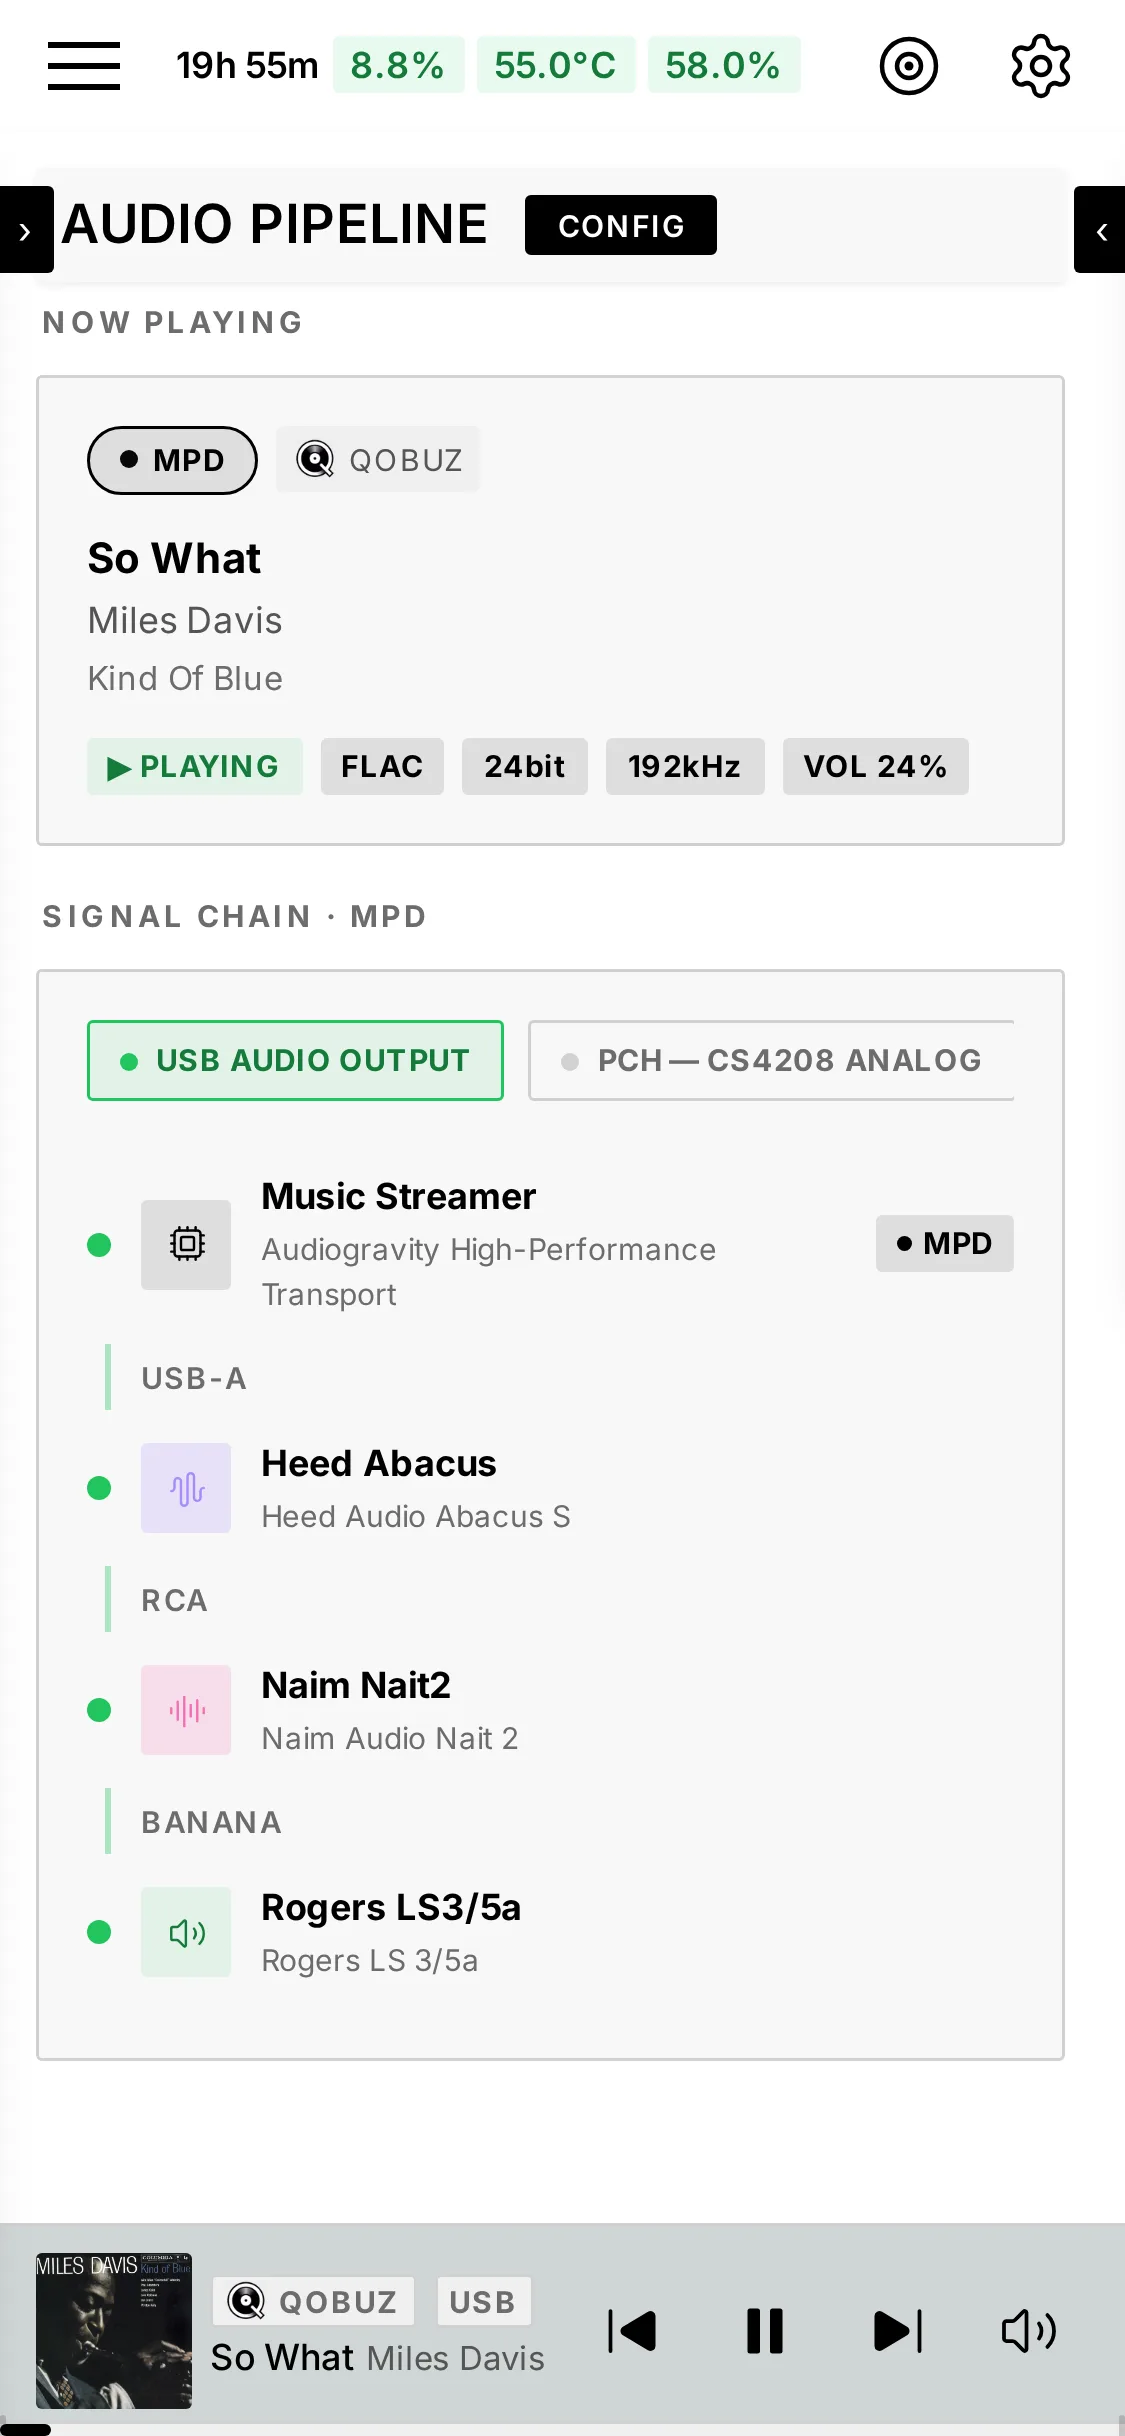
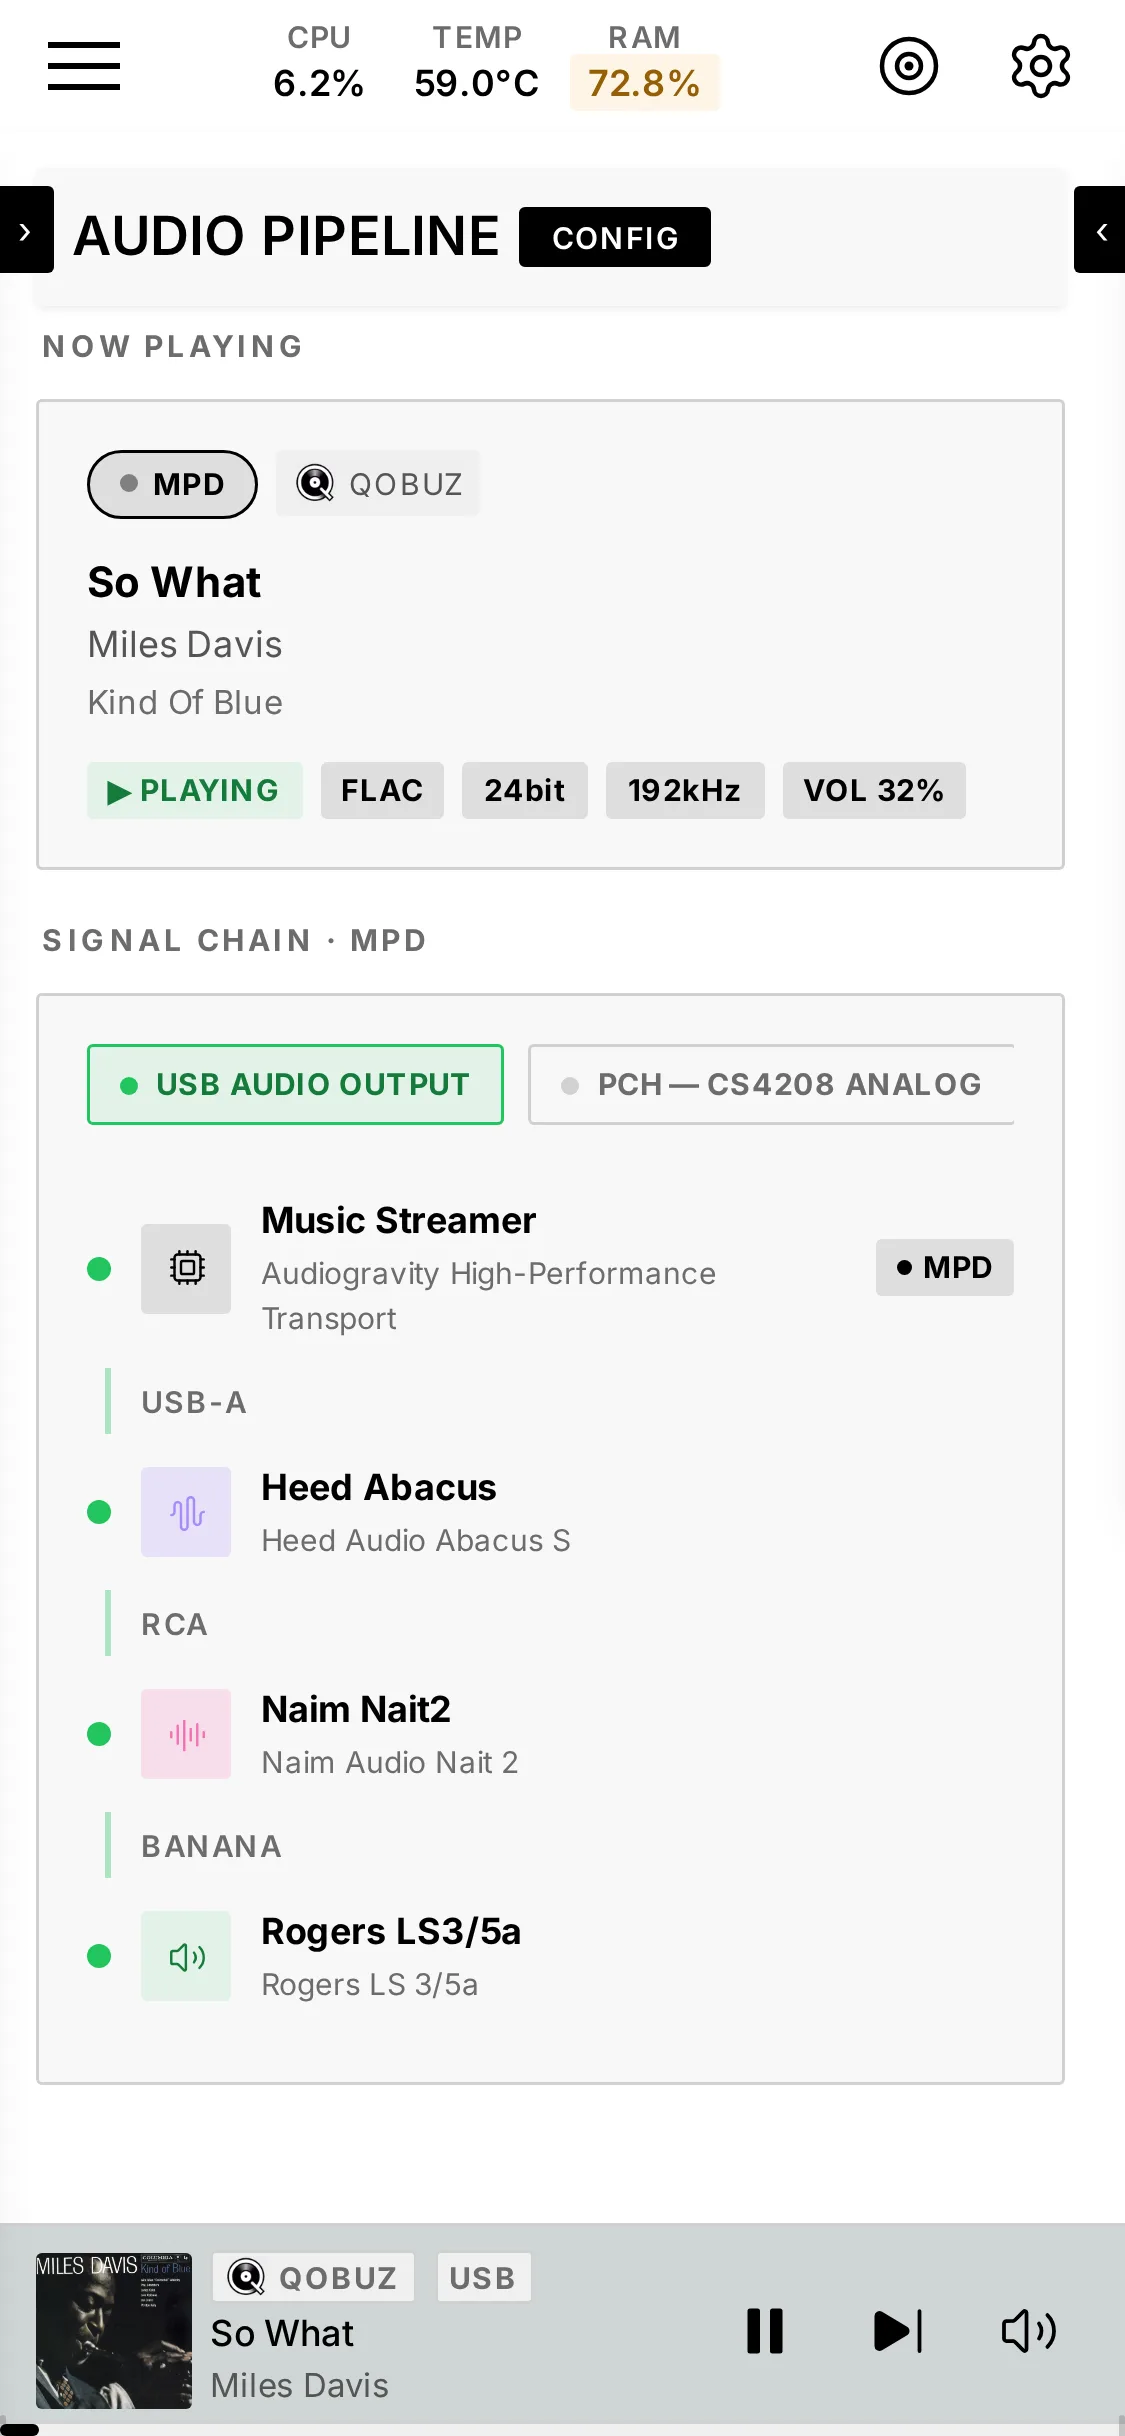
docs: document the rest of the interface's visual pass
Changelog and release notes for the Pipeline page on a computer, the
top bar's named figures, Audio Software's simulations and the output MPD
plays on; the manual's chapters 03, 06 and 07, and the figures
ios-signal-chain and ios-software, follow the interface.

diff --git a/CHANGELOG.md b/CHANGELOG.md
@@ -12,6 +12,7 @@ and this landing) are documented here. Format based on
 ### Added
 - **[ui][manual] The app can follow the device's light or dark mode.** Settings → Appearance offers *Automatic*, *Light* and *Dark* in place of the light/dark switch. *Automatic*, the default, follows the device — light by day, dark at night on a device that switches by itself — and so does the sign-in screen, from its first paint. A device set to light or dark with the old switch keeps that choice.
 - **[ui][manual] A live radio shows LIVE instead of a progress bar.** A live stream has no end and no position: the bar gives way to a *LIVE* marker under the transport, which dims while the stream is paused.
+- **[ui][manual] On a computer, the Pipeline page lists the streams beside the diagram.** What plays, through what, to which output — the list a phone shows — sits in the right-hand column, with *Audio events* under it; on a narrower window, the list and the events sit side by side under the diagram.
 
 ### Changed
 - **[ui][manual] On a phone, the mini-player gives the title its room.** Title and artist shared one line, in the width four buttons left them — 115 px on an iPhone mini — and had to scroll to be read. *Previous* leaves the bar (the full player keeps it; volume stays), and title and artist take a line each: 159 px of text.
@@ -25,9 +26,21 @@ and this landing) are documented here. Format based on
 - **[ui] On a computer, the library's lists are centred.** The queue, sources, outputs and radio lists stretched across the whole screen; they now keep to 900 px, centred, under a tab bar that stays in place from one view to the next.
 - **[ui] The full-screen player uses a landscape screen's width.** From 900 px wide in landscape, the cover sits on the left and the track, its controls and what comes next on the right, instead of one column under the cover.
 - **[site][ui] The editions speak of a simulation, not a dry-run.** The Starter edition's software line, on the landing and in the app.
+- **[ui][manual] The top bar names its figures.** *CPU*, *Temp* and *RAM* were hidden under 1,025 px, which left three numbers no one could name. They now read inline — *CPU: 12%* — wherever there is room, and over their figure on a phone under 430 px. A figure takes a colour only past a threshold, orange then red, where all three were always green. A phone keeps those three and leaves the uptime to a computer's bar; on a small tablet, the word *Connected* gives way to the figures, as on a phone.
+- **[ui][manual] Audio Software simulates, and offers UPDATE only when it does something.** The *DRY-RUN* switch is now *SIMULATE*. *REFRESH* and *DOWNLOAD* carry their word next to their icon. *UPDATE* shows when another version is offered — or for Roon, whose installer always fetches the current build — where it showed on every installed package and answered *Already Up-to-Date*.
+- **[core] The audio pipeline goes out when it changes.** It went out every 30 seconds to every screen, identical but for its time. A screen that connects gets the last one at once — to it alone, without the box computing it again — and the pipeline's time is now written in universal time.
+- **[ui] The phone's pipeline list stops asking for its outputs every 15 seconds.** It reads them again when an output changes.
+- **[ui] In landscape, the full-screen player's column is centred on the cover whatever it shows**, and a phone held sideways has less to scroll.
 
 ### Fixed
 - **[ui] The System tab shows the memory in use.** It read two fields the core does not send, and showed *0.0 GB / 0.0 GB* on every box; it now shows the memory in use and the total, such as *2.8 GB / 3.7 GB*.
+- **[core][ui] A simulation no longer passes for the real thing.** It answered *Successfully installed …*, its log ended the same way, and a simulation that failed left its card in error. It now answers *the steps to install … went through* — or *a step … failed* — *nothing was changed*, its log ends on that sentence and its window on *Simulated: nothing was changed*, the card keeps the state it had, the history reads *Simulate install …*, and a simulated uninstall that would delete the settings says so.
+- **[ui] *Restart required* appears only after an install or an update that went through, on the device that ran it.** A simulation, an update the box refused and an operation run from another device lit it too, and a press restarted the service — cutting the music — for nothing.
+- **[core] A failure repaired outside Audiogravi<sup>ty</sup> stays repaired.** After a simulation or a refused operation, a card whose package had been repaired from a terminal went back to *ERROR* until the core restarted.
+- **[ui] *Audio events* records what the players did.** When the diagram's first reading of the pipeline failed, the speakers, the amplifier, the turntable and the phone all "started playback". A line is now written when a player starts, stops or moves to another track — a pause and a resume included.
+- **[ui] The Pipeline page no longer goes back in time.** A reading that came back late, or the pipeline kept for offline use, could put an older state back on screen.
+- **[core][ui] On a box with MPD on several outputs, the output pills and the Config tab name the output it plays on.** They named the first output of its configuration while the diagram showed the one playing. Asked of MPD, the answer waits two seconds at most: an MPD that stopped answering held the diagram for good.
+- **[ui] The update window's title said *Updateing*.**
 
 ## [0.9.65] - 2026-10-04
 

diff --git a/docs/manual/07-administration.md b/docs/manual/07-administration.md
@@ -27,7 +27,7 @@ indicator for users currently connected. Three roles control who can do what:
   another admin. Nobody can delete, disable or change the role of their own account.
 - **User** — everything except what is kept for admins: managing accounts, the guided
   setup of the audio stack and its network shares, the Config editor's **Guided** mode
-  and **CONFIGURED** badges, the **DRY-RUN** switch of Audio Software, restarting or
+  and **CONFIGURED** badges, the **SIMULATE** switch of Audio Software, restarting or
   rebooting the box, updating Audiogravi<sup>ty</sup>, the support report, the terminal
   and removing the licence. The **Admin** tab is not shown to users.
 - **Guest** — can look at every tab except **Admin** and control what is playing — play
@@ -66,7 +66,7 @@ The **gear** in the top bar opens the app-wide Settings panel:
 - **Animations** — turns UI motion off (functional loading spinners keep animating so
   an operation never looks stuck).
 - **Top Bar Metrics** — shows or hides the figures of the top bar — uptime, CPU,
-  temperature and memory — on this device only. The **System** tab keeps showing them.
+  temperature and memory; a phone shows the last three — on this device only. The **System** tab keeps showing them.
 - **Portrait Lock** — phones and tablets only; see
   [4. Listening](04-listening.md#portrait-lock).
 - **Face ID / Touch ID** — register this device as a **passkey** in one tap; each
@@ -273,7 +273,8 @@ shairport-sync, Roon Bridge…).
 - **Filter** — ALL / INSTALLED / UPDATES narrows the list of cards.
 - **States** — NOT INSTALLED, INSTALLED, INSTALLING / UPDATING / UNINSTALLING (with a
   progress bar), ERROR.
-- **Actions** — INSTALL, UPDATE (to the version its publisher offers), UNINSTALL. After a failed
+- **Actions** — INSTALL; UPDATE, shown when another version is offered — for HQPlayer NAA it
+  can be an older one, see below — and always for Roon; UNINSTALL. After a failed
   operation the card offers the way out that fits it: an install that failed left
   nothing behind, so it offers to try again; an update that failed left the previous
   version in place, so it offers to update or to remove.
@@ -306,7 +307,7 @@ shairport-sync, Roon Bridge…).
 - **Not available here** — a greyed-out INSTALL always says why, and the three reasons
   are not the same: the publisher has **no build** for your machine's architecture
   (nothing to be done); their site **could not be reached** when the list was worked
-  out (worth trying again — the refresh icon in the page header rebuilds it); or
+  out (worth trying again — **REFRESH** in the page header rebuilds it); or
   another installed package **rules it out**. Roon is the case you are most likely to
   meet: Roon Server already contains Roon Bridge, so the two cannot share a box, and
   the card names the one that is in the way.
@@ -324,8 +325,8 @@ shairport-sync, Roon Bridge…).
   documentation in a new tab.
 - **Architecture** — the CPU badge lists the processor types the package is published
   for.
-- **DRY-RUN** (admins) — goes through an operation without changing anything. It only
-  walks the steps: a dry run that succeeds does not prove the real one will.
+- **SIMULATE** (admins) — goes through an operation without changing anything. It only
+  walks the steps: a simulation that succeeds does not prove the real one will.
 
 ## System
 

diff --git a/RELEASE_NOTES.md b/RELEASE_NOTES.md
@@ -32,6 +32,29 @@ of a landscape screen: the cover on the left, the track on the right.
 writes its figures as they are written — *x86_64*, *MHz*. The live feed's tile now says
 *Live updates*.
 
+**A top bar that names its figures.** *CPU*, *Temp* and *RAM* read beside their numbers, or
+over them on a small phone, and a figure takes a colour only when it needs your attention.
+
+**The Pipeline page, on a computer.** The list of what plays, through what and to which
+output sits beside the diagram, with *Audio events* under it — which now records what the
+players did, and no longer playbacks that never happened. A screen that opens gets the
+current pipeline at once, and the box no longer sends it to every screen every 30 seconds.
+
+**On a box with several outputs.** The output pills and the Config tab name the output MPD
+really plays on, as the diagram does.
+
+### Audio Software
+
+**Simulate, and see it was a simulation.** The *DRY-RUN* switch is now *SIMULATE*, and a
+simulation says what it is from the first line of its log to the last: *the steps went
+through — nothing was changed*, or the step that failed. The card keeps its state, and no
+*Restart required* follows — nor after an update the box refused, or one run from another
+device.
+
+**UPDATE when there is something to update.** The button shows when another version is offered
+— and always for Roon, whose installer fetches the current build — instead of on every
+installed package.
+
 ---
 
 ## 0.9.65 — 2026-10-04

diff --git a/docs/manual/06-outputs-engines.md b/docs/manual/06-outputs-engines.md
@@ -397,9 +397,11 @@ layout, and show or hide the **LEGEND**, a **MINIMAP** and the **NETWORK** links
 switches, off by default, add your idle **analog sources** (turntable, tuner…) and the
 **controllers** — the phones and apps that drive the box.
 
-On small screens it falls back to a simplified Now Playing view: one card per stream,
-with the chain it takes and, for a service that can be steered, pills to send it to
-another output (USB, optical, HDMI…).
+Beside the graph — under it in a narrower window — the same chain reads as a list: one
+card per stream, with the chain it takes and, for a service that can be steered, pills
+to send it to another output (USB, optical, HDMI…). Next to the list, **Audio events**
+notes when a source starts or stops playing, and each new track — while the view is open
+on a computer. On a phone, the list is what the tab shows.
 
 <img src="images/ios-signal-chain.webp" alt="The Audio Pipeline on a phone: the Now Playing card, the output steering pills, and the signal chain from the streamer through the DAC and the amplifier to the speakers" width="360">
 

diff --git a/docs/manual/03-first-run.md b/docs/manual/03-first-run.md
@@ -56,7 +56,7 @@ daemon costs nothing, and that badge is what keeps it stopped after a reboot.
 
 The other engines are yours to choose, from the **Audio Software** tab (see
 [7. Administration → Audio Software](07-administration.md#audio-software)): each
-has a card with an **INSTALL** button.
+has a card, with an **INSTALL** button until it is installed.
 
 - **Shairport Sync** — to receive **AirPlay**.
 - **UPnP Bridge** (upmpdcli) — to expose the box as a **UPnP renderer** other apps
@@ -67,7 +67,7 @@ has a card with an **INSTALL** button.
 
 Install what you need now — you can always come back for the rest later.
 
-<img src="images/ios-software.webp" alt="The Audio Software tab: engine cards with install, update and uninstall actions" width="360">
+<img src="images/ios-software.webp" alt="The Audio Software tab: one card per engine with its installed and available versions — here three engines installed and up to date" width="360">
 
 ## 4. Configure the audio stack (guided)
 
